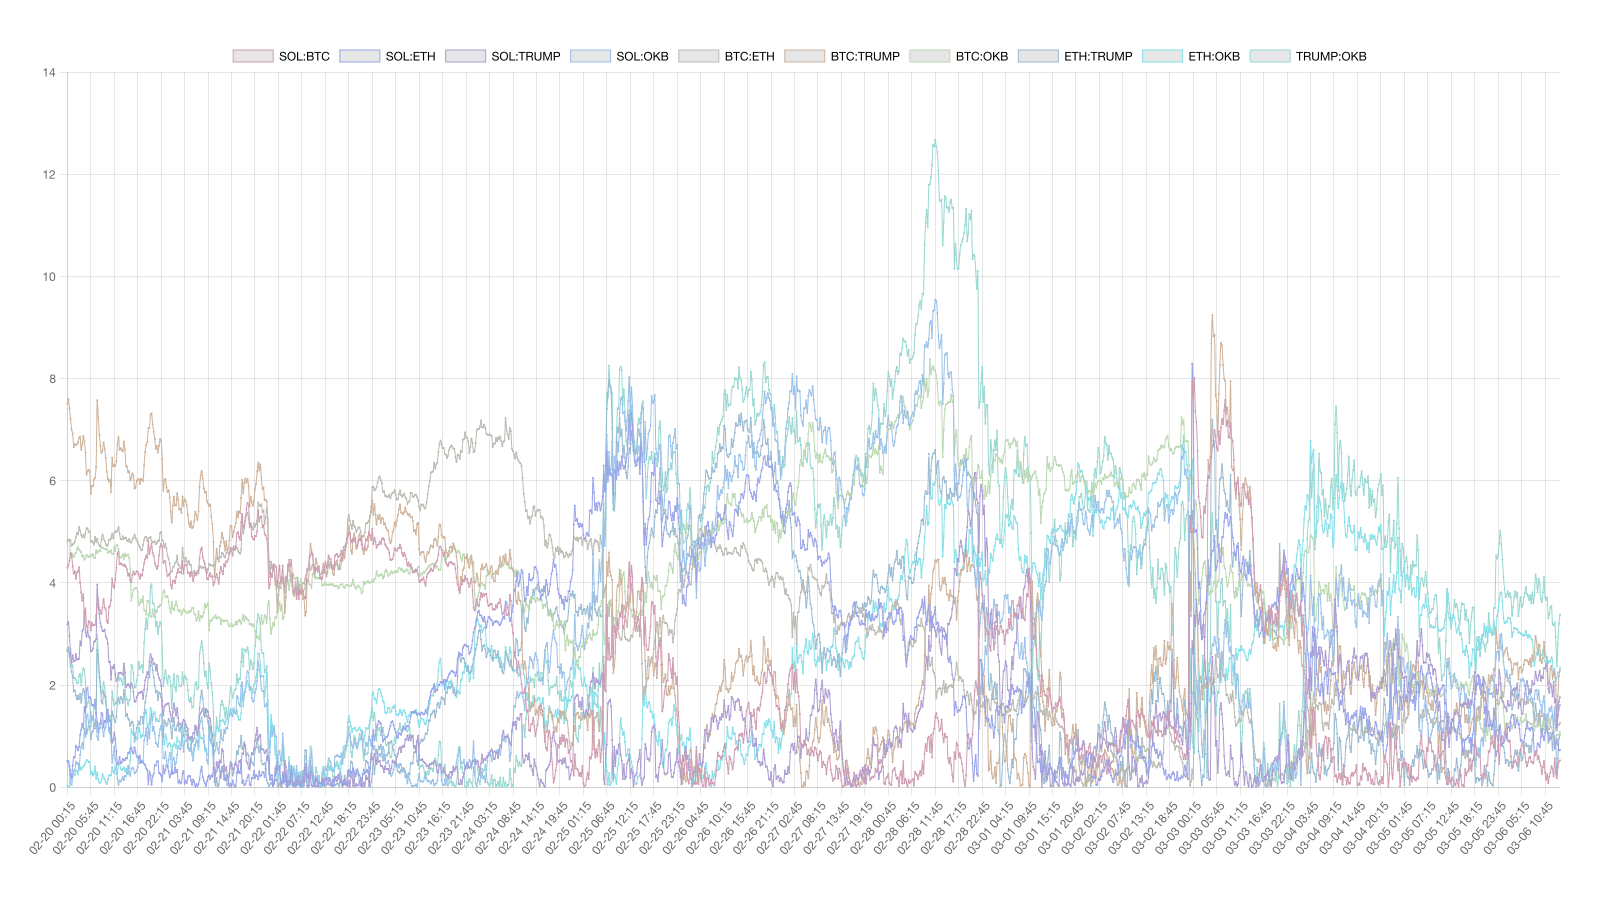
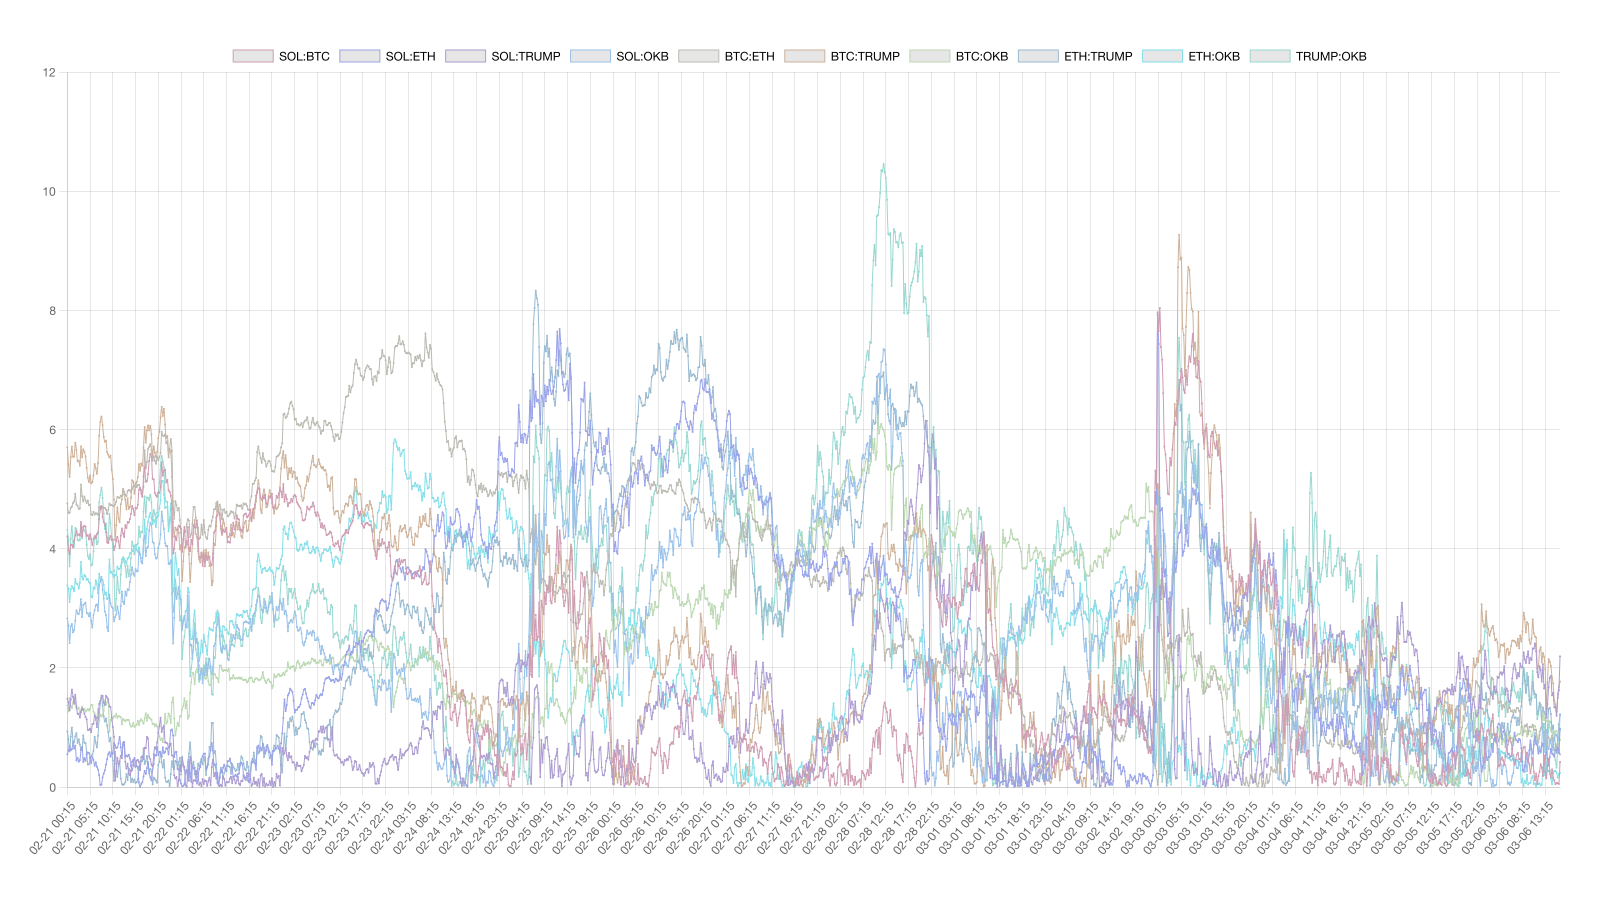
fix: 打印行为

Changed region(s): [[0.0312, 0.0933, 1.0, 0.9644]]

diff --git a/src/TradeEngine/processors/HedgeProcessor.js b/src/TradeEngine/processors/HedgeProcessor.js
@@ -155,7 +155,7 @@ export class HedgeProcessor extends AbstractProcessor{
         if(profit>0){
           close_position(tradeId);
         } else {
-          console.log(`[${tradeId}]满足平仓（实时对冲比）条件，${diff_rate}<=(${close_gate})但利润为负:${profit}`)
+          console.log(`[${tradeId}][${orders.map(it=>it.instId).join('->')}]满足平仓条件：固定${(diff_rate_fixed*100).toFixed(2)}% or 实时${(diff_rate_realtime*100).toFixed(2)}% <= 门限${(close_gate*100).toFixed(2)}% 但利润为负:$${profit.toFixed(2)}`)
         }       
       }
 

diff --git a/main.js b/main.js
@@ -61,7 +61,7 @@ const params = {
   once_limit,
   candle_limit,
   from_when: getLastWholeMinute(new Date()),
-  to_when:new Date(2025,1,20,0,0,0).getTime(),
+  to_when:new Date(2025,1,21,0,0,0).getTime(),
 }
 
 const assetIds = assets.map(it=>it.id);
